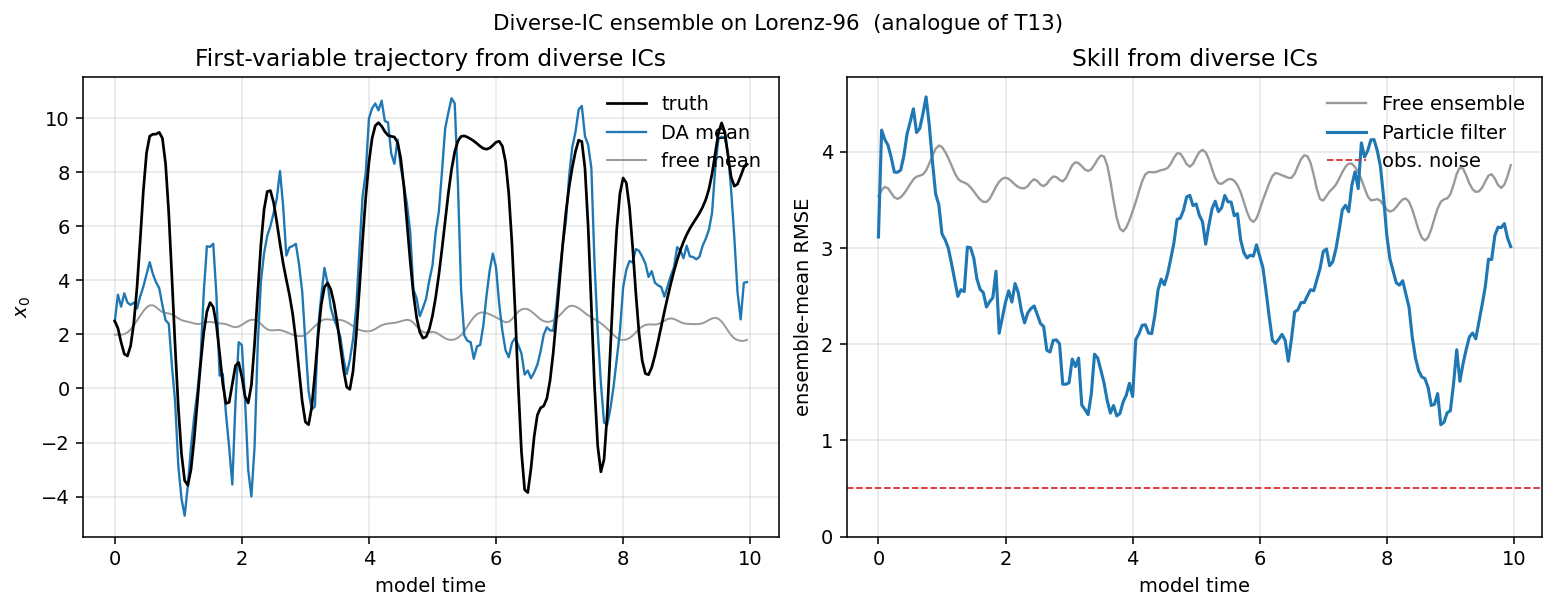
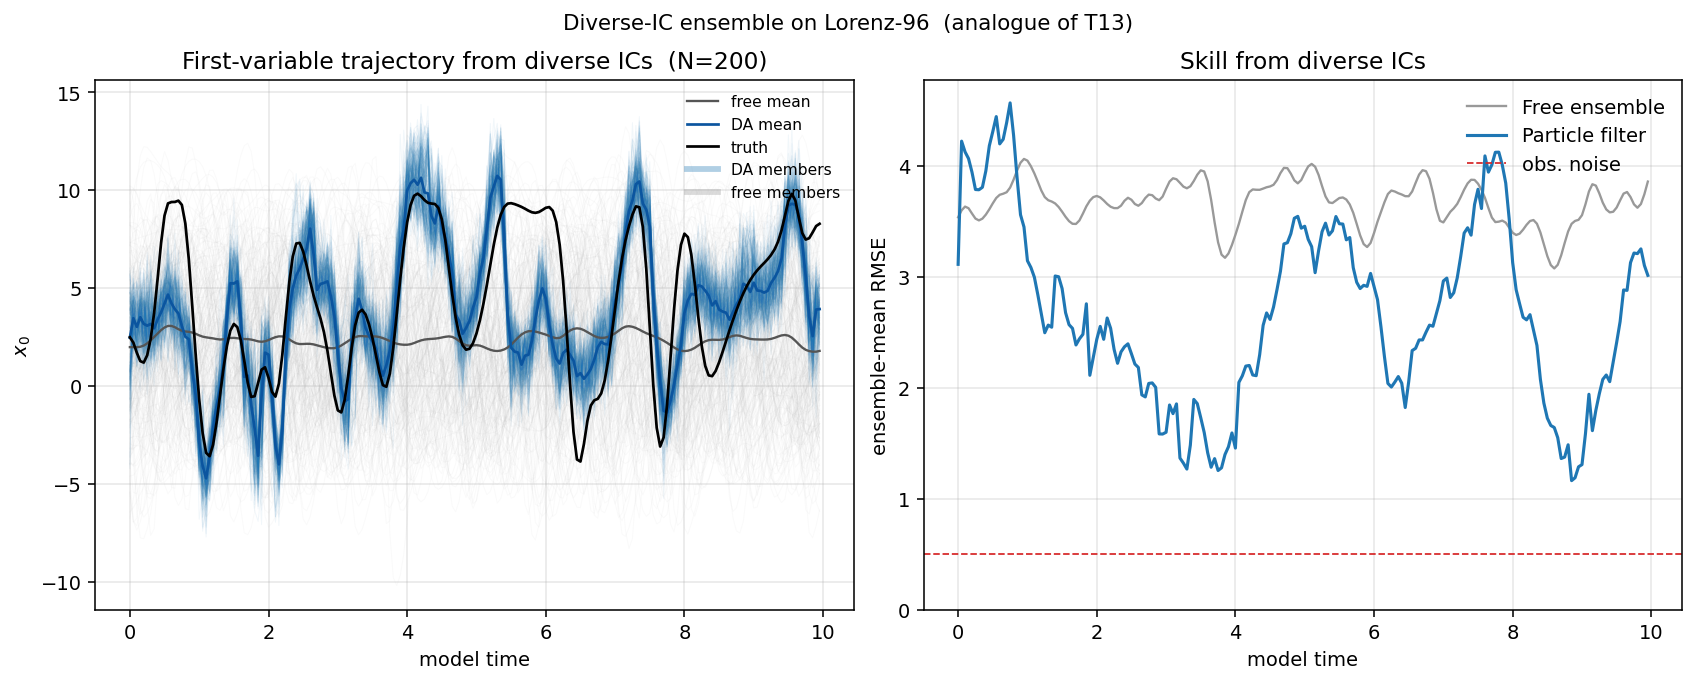
docs(figures): overplot every ensemble member on the diverse-IC figure
The T13-analogue figure previously showed only the ensemble means.
Low-alpha overlays of every member's first-variable trajectory now
make the 'pulling-together' effect visible directly:

  - grey cloud: the 200 free-ensemble members stay spread across the
    Lorenz-96 attractor (-5 to +12), illustrating why their mean
    collapses to climatology;
  - blue cloud: the 200 DA members are rail-locked around the truth
    trajectory, illustrating that DA pulls the scattered ensemble
    onto the observed path without needing shared initial-state
    memory.

Figure size bumped slightly so the now-denser left panel stays
readable; member alpha set to 0.06 so both clouds are visible at
normal viewing distance without saturating the panel.

diff --git a/examples/06_l96_diverse_ics.py b/examples/06_l96_diverse_ics.py
@@ -88,14 +88,17 @@ def main() -> None:
     spread_da: list[float] = []
     spread_free: list[float] = []
 
-    # Diagnostic scalar: the first variable of the truth, and the
-    # ensemble means, plotted over time so the "pulling-together"
-    # behaviour is visible.
+    # Diagnostic scalar: the first variable of the truth, of each
+    # ensemble member, and of the ensemble means, over time. Member
+    # trajectories are overplotted with low alpha in the figure so the
+    # "pulling-together" behaviour is visible.
     truth_x0: list[float] = []
     da_mean_x0: list[float] = []
     free_mean_x0: list[float] = []
+    da_members_x0 = np.empty((N_CYCLES, cfg.n_members))
+    free_members_x0 = np.empty((N_CYCLES, cfg.n_members))
 
-    for _ in range(N_CYCLES):
+    for cycle_i in range(N_CYCLES):
         truth = integrate(truth, N_STEPS_PER_OBS, DT)
         ensemble_da = integrate(ensemble_da, N_STEPS_PER_OBS, DT)
         ensemble_free = integrate(ensemble_free, N_STEPS_PER_OBS, DT)
@@ -124,6 +127,8 @@ def main() -> None:
         truth_x0.append(float(truth[0]))
         da_mean_x0.append(float(mean_da[0]))
         free_mean_x0.append(float(mean_free[0]))
+        da_members_x0[cycle_i] = ensemble_da[:, 0]
+        free_members_x0[cycle_i] = ensemble_free[:, 0]
 
     print(f"Mean RMSE  DA   (cycles 20+) = {np.mean(rmse_da[20:]):.3f}")
     print(f"Mean RMSE  FREE (cycles 20+) = {np.mean(rmse_free[20:]):.3f}")
@@ -131,19 +136,25 @@ def main() -> None:
     print(f"Mean spread FREE (end) = {np.mean(spread_free[-20:]):.3f}")
 
     OUT_FIG.parent.mkdir(parents=True, exist_ok=True)
-    fig, (ax_ts, ax_rmse) = plt.subplots(1, 2, figsize=(11.0, 4.0), constrained_layout=True)
+    fig, (ax_ts, ax_rmse) = plt.subplots(1, 2, figsize=(12.0, 4.5), constrained_layout=True)
 
     t_obs = np.arange(N_CYCLES) * OBS_INTERVAL
 
-    # Left: first variable trajectory. Black = truth, blue = DA mean,
-    # grey = free mean. Shows DA locking onto truth while free drifts.
-    ax_ts.plot(t_obs, truth_x0, color="black", lw=1.4, label="truth", zorder=3)
-    ax_ts.plot(t_obs, da_mean_x0, color="#1f77b4", lw=1.2, label="DA mean", zorder=2)
-    ax_ts.plot(t_obs, free_mean_x0, color="#999999", lw=1.0, label="free mean", zorder=1)
+    # Left: first variable trajectory. Each ensemble member plotted at
+    # low alpha so the spread is visible, with the means on top and
+    # the truth on top of that.
+    ax_ts.plot(t_obs, free_members_x0, color="#b0b0b0", lw=0.5, alpha=0.06, zorder=1)
+    ax_ts.plot(t_obs, da_members_x0, color="#1f77b4", lw=0.5, alpha=0.06, zorder=2)
+    ax_ts.plot(t_obs, free_mean_x0, color="#555555", lw=1.2, label="free mean", zorder=3)
+    ax_ts.plot(t_obs, da_mean_x0, color="#0b559f", lw=1.4, label="DA mean", zorder=4)
+    ax_ts.plot(t_obs, truth_x0, color="black", lw=1.4, label="truth", zorder=5)
+    # Legend proxy for the member clouds (matplotlib won't legend alpha<1 cleanly).
+    ax_ts.plot([], [], color="#1f77b4", lw=3, alpha=0.35, label="DA members")
+    ax_ts.plot([], [], color="#999999", lw=3, alpha=0.35, label="free members")
     ax_ts.set_xlabel("model time")
     ax_ts.set_ylabel("$x_0$")
-    ax_ts.set_title("First-variable trajectory from diverse ICs")
-    ax_ts.legend(frameon=False, loc="upper right")
+    ax_ts.set_title(f"First-variable trajectory from diverse ICs  (N={cfg.n_members})")
+    ax_ts.legend(frameon=False, loc="upper right", fontsize=8)
     ax_ts.grid(alpha=0.3)
 
     # Right: RMSE time series.
